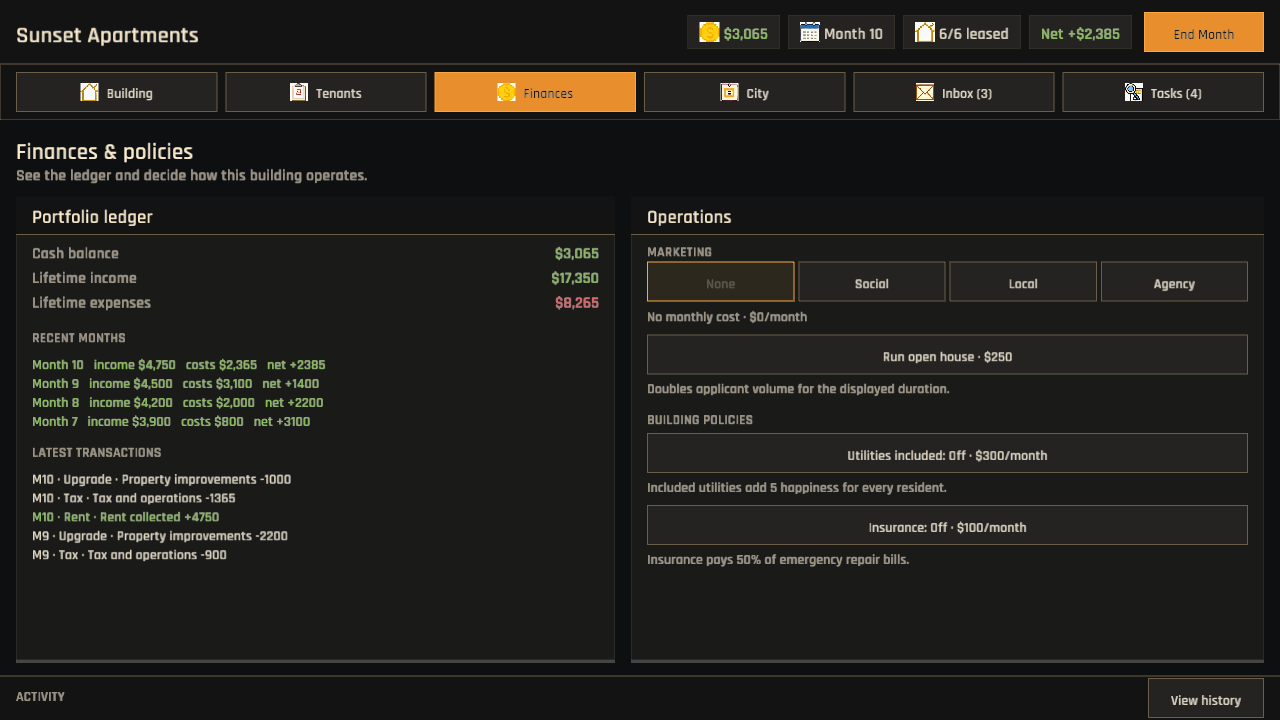
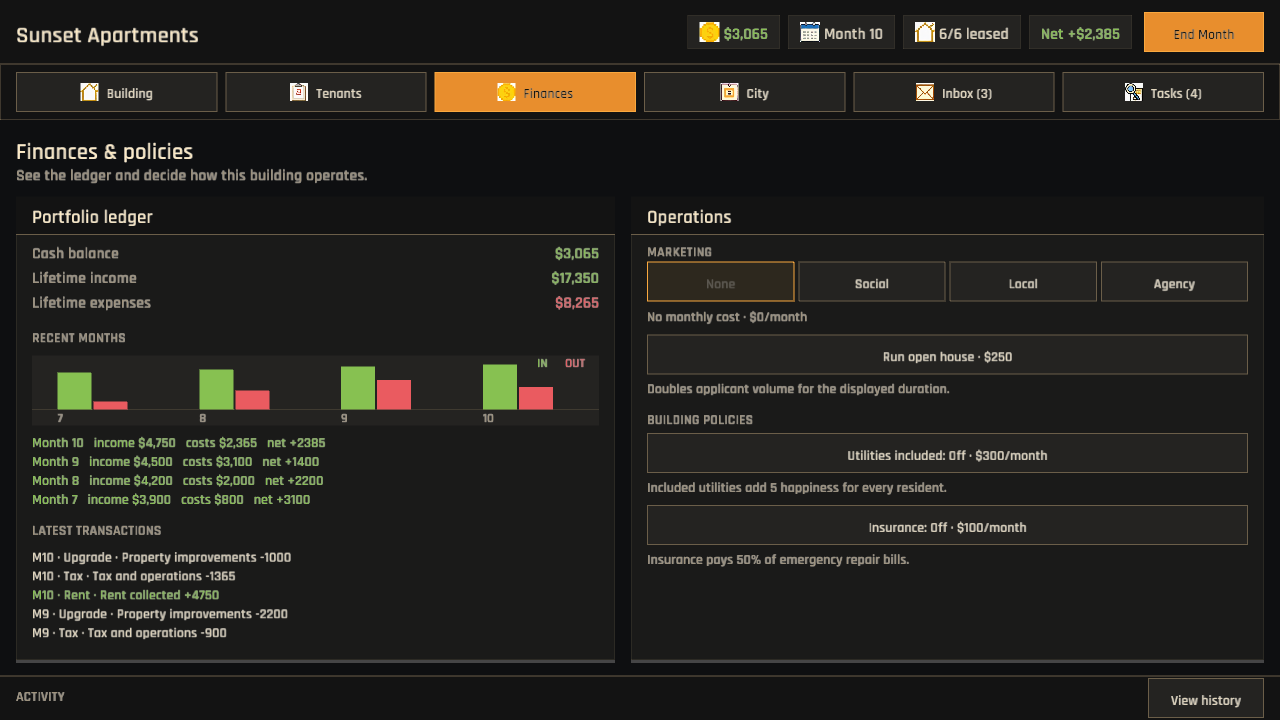
The ledger sketches the rise and fall behind every month (responsive cashflow trend)
Add a compact six-month income-versus-outgoing bar chart to the portfolio ledger so financial direction can be read without manually comparing rows. Keep semantic positive and negative colors, month labels, and a small in/out legend.

Gate the chart by available height so 640x480 retains every marketing and building-policy control while desktop layouts gain the visual trend. Re-export MonthlyReport through the economy boundary for the focused UI helper.

Verified with 131 passing tests (1 ignored), desktop, wide, and 640x480 finance captures, formatting, diff and Rust line-count checks, and publish.ps1 for Windows, WebGL, and preview deployment.

Changed region(s): [[0.0, 0.4889, 0.3438, 0.8861], [0.375, 0.4889, 0.4375, 0.5806], [0.4375, 0.4889, 0.4688, 0.5194]]

diff --git a/src/ui/workspace_views.rs b/src/ui/workspace_views.rs
@@ -291,6 +291,14 @@ fn draw_ledger(state: &GameplayState, rect: Rect) {
         color::TEXT_DIM(),
     );
     y += line_height(scale::LABEL) + space::SM;
+    if inner.h >= 360.0 && state.ledger.reports.len() >= 2 {
+        let chart_h = 70.0;
+        draw_finance_trend(
+            &state.ledger.reports,
+            Rect::new(inner.x, y, inner.w, chart_h),
+        );
+        y += chart_h + space::SM;
+    }
     for report in state.ledger.reports.iter().rev().take(4) {
         let text = format!(
             "Month {}   income {}   costs {}   net {:+}",
@@ -349,6 +357,74 @@ fn draw_ledger(state: &GameplayState, rect: Rect) {
         );
         y += line_height(scale::LABEL);
     }
+}
+
+fn draw_finance_trend(reports: &[crate::economy::MonthlyReport], rect: Rect) {
+    let recent: Vec<_> = reports.iter().rev().take(6).collect();
+    let max_value = recent
+        .iter()
+        .map(|report| {
+            report
+                .rent_income
+                .max(report.repair_costs + report.upgrade_costs)
+                .max(report.net.abs())
+        })
+        .max()
+        .unwrap_or(1)
+        .max(1) as f32;
+    draw_rectangle(rect.x, rect.y, rect.w, rect.h, color::SURFACE_ALT());
+    draw_line(
+        rect.x,
+        rect.bottom() - 16.0,
+        rect.right(),
+        rect.bottom() - 16.0,
+        1.0,
+        color::BORDER(),
+    );
+    let group_w = rect.w / recent.len() as f32;
+    for (index, report) in recent.iter().rev().enumerate() {
+        let x = rect.x + index as f32 * group_w + group_w * 0.18;
+        let bar_w = (group_w * 0.24).max(3.0);
+        let chart_h = rect.h - 25.0;
+        let income_h = chart_h * report.rent_income as f32 / max_value;
+        let costs = report.repair_costs + report.upgrade_costs;
+        let cost_h = chart_h * costs as f32 / max_value;
+        draw_rectangle(
+            x,
+            rect.bottom() - 16.0 - income_h,
+            bar_w,
+            income_h,
+            color::POSITIVE(),
+        );
+        draw_rectangle(
+            x + bar_w + 2.0,
+            rect.bottom() - 16.0 - cost_h,
+            bar_w,
+            cost_h,
+            color::NEGATIVE(),
+        );
+        draw_ui_text(
+            &report.tick.to_string(),
+            x,
+            rect.bottom() - 3.0,
+            scale::CAPTION,
+            color::TEXT_DIM(),
+        );
+    }
+    draw_ui_text(
+        "IN",
+        rect.right() - 62.0,
+        rect.y + 12.0,
+        scale::CAPTION,
+        color::POSITIVE(),
+    );
+    draw_ui_text(
+        "OUT",
+        rect.right() - 34.0,
+        rect.y + 12.0,
+        scale::CAPTION,
+        color::NEGATIVE(),
+    );
 }
 
 fn draw_policies(state: &GameplayState, rect: Rect) -> Option<UiAction> {

diff --git a/src/economy.rs b/src/economy.rs
@@ -12,6 +12,6 @@ mod money;
 mod rent;
 
 pub use costs::{process_upgrade, OperatingCosts};
-pub use ledger::FinancialLedger;
+pub use ledger::{FinancialLedger, MonthlyReport};
 pub use money::{PlayerFunds, Transaction, TransactionType};
 pub use rent::collect_rent;
